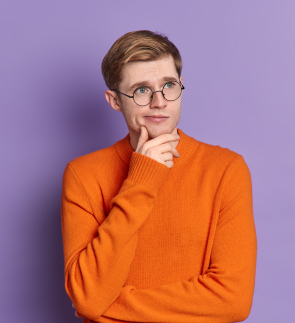
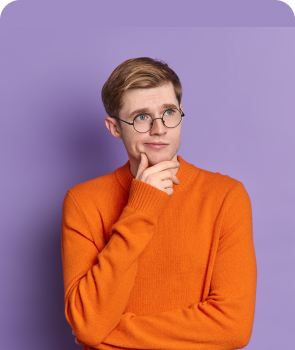
Update Image

diff --git a/Day_5/styles/landing-page.css b/Day_5/styles/landing-page.css
@@ -139,11 +139,13 @@
 
     .item {
         background-color: white;
+        border: transparent;
         border-radius: 25px;
 
         img {
             width: 295px;
-            aspect-ratio: 295/350;
+            height: 350px;
+            object-fit: cover;
         }
 
         .item-description {
